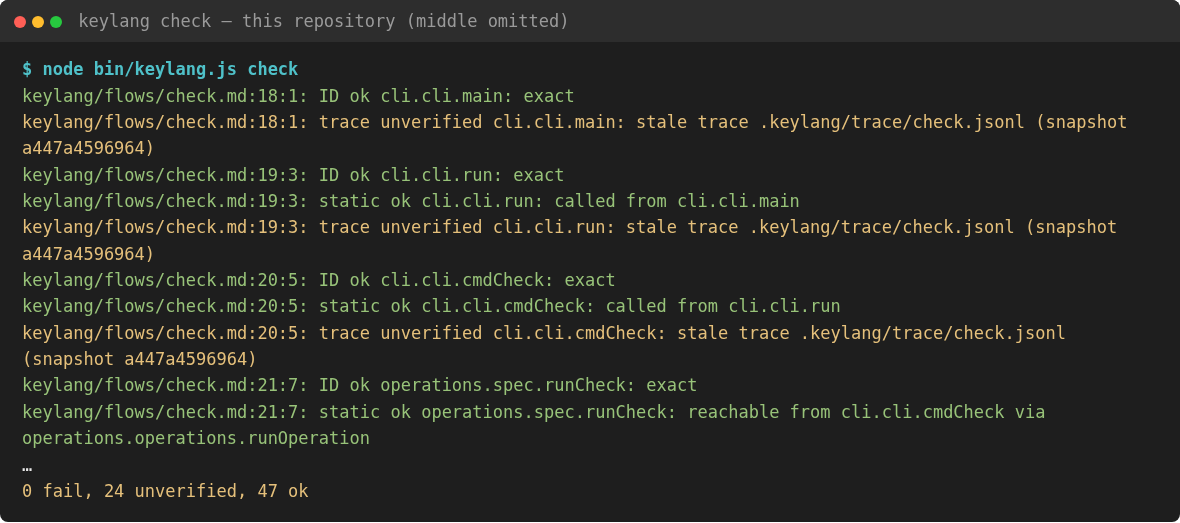
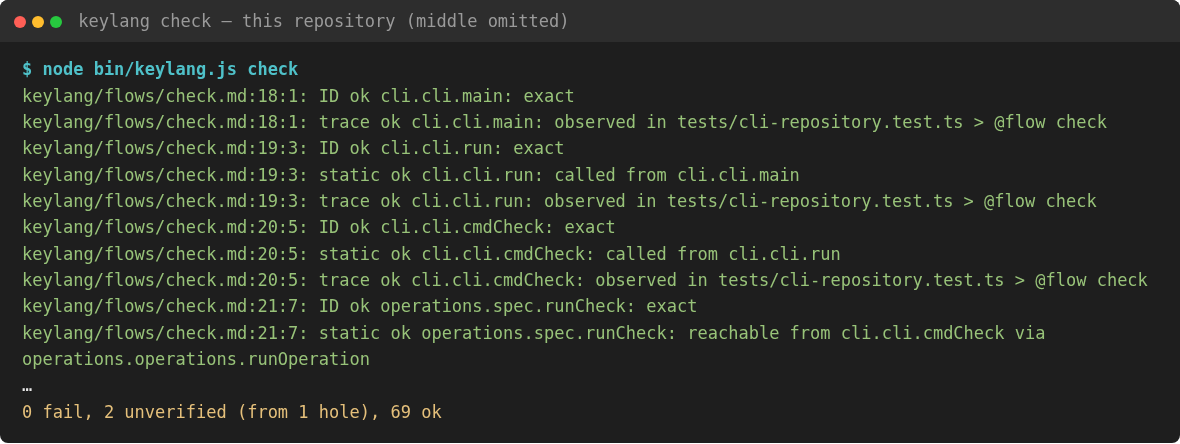
Retake the CLI screenshots for 0.8.0

diff --git a/docs/course/README.md b/docs/course/README.md
@@ -10,7 +10,7 @@ keylang is built around a division of labour. You write the spec, and an agent g
 
 This course teaches you to read and write that spec and to work with it from the CLI, the terminal and the browser. The exact format spec is written in Ukrainian and split into the syntax in [`docs/grammar.md`](../grammar.md), ids, diagnostics and evidence in [`docs/semantics.md`](../semantics.md), and the code snapshot in [`docs/snapshot.md`](../snapshot.md). If this course and the spec disagree about a diagnostic, trust the spec. Commands and flags are described in [`docs/cli.md`](../cli.md) and in `keylang --help`; the terminal and browser UIs are described in [`docs/tui.md`](../tui.md). [`docs/design.md`](../design.md) describes where the tool is heading rather than what it does today, so when a lesson mentions something the tool cannot do yet, it says so.
 
-The UI screenshots were taken in this repository with `node bin/keylang.js web` on 2026-09-28. The local trace and test report were out of date that day, so the marks that depend on them show as `unverified`. The CLI pictures show the output of 0.7.0; `node scripts/cli-screenshots.mjs` takes them again from the current checkout.
+The UI screenshots were taken in this repository with `node bin/keylang.js web` on 2026-09-28. The local trace and test report were out of date that day, so the marks that depend on them show as `unverified`. The CLI pictures show the output of 0.8.0; `node scripts/cli-screenshots.mjs` takes them again from the current checkout.
 
 | Lesson | You will be able to |
 |---|---|
